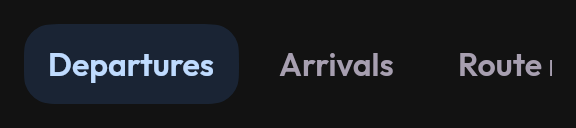
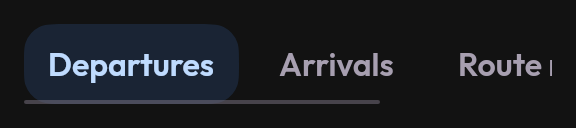
Round 26 stage 6f: a tab row you can tell scrolls, on a phone as well
Asked for as "a horizontal scrollbar for a scrollable `TabBar`, as an option on
`Scrollbar` rather than duplicated". `Scrollbar` needed no new behaviour at all —
it already takes a `ScrollState`, already threads `orientation` through every one
of its branches, and a horizontal one has been in production over the docs site's
code blocks since round 21. What `TabBar` lacked was a scroll position anything
could read: it built one inline at the call site and never named it, so nothing —
not a scrollbar, not a reveal-the-selected-tab effect — could see where the row
had got to.

So: `scrollState` is hoisted to a parameter, the scrolling box gains a wrapper so
a bar can be laid over the tabs rather than beside them, and a scrollable row
draws one.

## `alwaysVisible`, which is a default being overridden deliberately

`Scrollbar` returns early for anything but a mouse — `LocalInputModality` is
`Touch` by default and `supportsHover` is true only for `Mouse`. That is the
right default for a bar over content you can already see and drag: on a phone it
is clutter over the thing the finger is on.

A tab row is where it is wrong. Its whole problem is that you cannot tell there
are more tabs past the edge, and an affordance that appears only once you have a
pointer to discover them with answers a different question. The report came from
a phone, so the default would have shipped this to every platform except the one
that asked for it — which is this round's failure mode exactly.
[…]

Changed region(s): [[0.0312, 0.7812, 0.6562, 0.8125]]

diff --git a/ui-catalog/src/jvmTest/kotlin/io/kontour/ui/catalog/TabBarScrollbarTest.kt b/ui-catalog/src/jvmTest/kotlin/io/kontour/ui/catalog/TabBarScrollbarTest.kt
@@ -1,0 +1,121 @@
+package io.kontour.ui.catalog
+
+import androidx.compose.foundation.background
+import androidx.compose.foundation.layout.Box
+import androidx.compose.foundation.layout.fillMaxSize
+import androidx.compose.foundation.layout.width
+import androidx.compose.ui.Modifier
+import androidx.compose.ui.geometry.Rect
+import androidx.compose.ui.graphics.Color
+import androidx.compose.ui.unit.dp
+import io.kontour.ui.nav.Tab
+import io.kontour.ui.nav.TabBar
+import java.awt.image.BufferedImage
+import kotlin.test.Test
+import kotlin.test.assertEquals
+import kotlin.test.assertTrue
+
+/**
+ * A tab row that scrolls says so, on a phone as well as under a pointer.
+ *
+ * Asked for as "a horizontal scrollbar for a scrollable `TabBar`, as an option
+ * on `Scrollbar` rather than duplicated". `Scrollbar` needed no new behaviour —
+ * it already takes a `ScrollState`, already threads `orientation` through every
+ * branch, and a horizontal one is already in production over the docs site's
+ * code blocks. What `TabBar` lacked was a scroll state anything could read: it
+ * built one inline and never named it.
+ *
+ * ### `alwaysVisible`, and why it is not a default being overridden lightly
+ *
+ * `Scrollbar` returns early for anything but a mouse — `LocalInputModality` is
+ * `Touch` by default and `supportsHover` is true only for `Mouse`. That is the
+ * right default for a scrollbar over content you can already see and drag: on a
+ * phone it would be clutter over a thing the finger is touching anyway.
+ *
+ * A tab row is the case where it is not. Its whole problem is that you cannot
+ * tell there are more tabs past the edge, and an affordance that appears only
+ * once you have a pointer to discover them with answers the wrong question. The
+ * report came from a phone, so a scrollbar the phone never draws would have been
+ * shipping nothing.
+ *
+ * It still draws nothing when there is nothing to scroll — that is `Scrollbar`'s
+ * own `geometry.isUseful`, which is why the second test here is a control rather
+ * than a duplicate.
+ */
+class TabBarScrollbarTest {
+
+    private val Tabs = listOf(
+        "Departures", "Arrivals", "Platforms", "Disruptions", "Lifts", "Fares",
+    )
+
+    /** Ink in the bottom [rows] of [bounds], where the bar is drawn. */
+    private fun BufferedImage.inkAlongTheBottom(bounds: Rect, rows: Int): Int {
+        var count = 0
+        for (y in (bounds.bottom.toInt() - rows) until bounds.bottom.toInt()) {
+            for (x in bounds.left.toInt() until bounds.right.toInt()) {
+                val p = getRGB(x, y)
+                val luminance = ((p shr 16 and 0xFF) + (p shr 8 and 0xFF) + (p and 0xFF)) / 3
+                if (luminance < 210) count++
+            }
+        }
+        return count
+    }
+
+    private fun ink(scrollable: Boolean, tabs: List<String>): Int {
+        var bounds = Rect.Zero
+        var ink = 0
+        // Narrow enough that six tabs cannot fit, so a scrollable row really has
+        // somewhere to scroll.
+        Scene(width = 420, height = 160) {
+            Box(Modifier.fillMaxSize().background(Color.White)) {
+                TabBar(
+                    scrollable = scrollable,
+                    modifier = Modifier.width(200.dp).reportBounds { bounds = it },
+                ) {
+                    tabs.forEachIndexed { index, label ->
+                        Tab(selected = index == 0, onClick = {}, key = index) { +label }
+                    }
+                }
+            }
+        }.use { scene ->
+            ink = scene.frames(8).inkAlongTheBottom(bounds, rows = 10)
+        }
+        return ink
+    }
+
+    @Test
+    fun aScrollableRowDrawsItsBarWithNoPointerAnywhere() {
+        // `LocalInputModality` is `Touch` in a scene, which is the whole point:
+        // this is the configuration the report came from.
+        val scrolling = ink(scrollable = true, tabs = Tabs)
+        val fixed = ink(scrollable = false, tabs = Tabs)
+
+        assertTrue(
+            scrolling > fixed + 200,
+            "a scrollable tab row put ${scrolling}px of ink along its bottom " +
+                "edge against ${fixed}px for a fixed one — not enough to be a " +
+                "scrollbar. On touch `Scrollbar` draws nothing unless it is " +
+                "asked to, so a tab row that overflows was giving a finger no " +
+                "sign that there was anything past the edge.",
+        )
+    }
+
+    @Test
+    fun aRowWithNothingToScrollDrawsNoBar() {
+        // The control, and it is `Scrollbar`'s rule rather than this call site's:
+        // two tabs fit, so there is no travel and nothing to say.
+        //
+        // Two *short* tabs. A first draft used "Departures" and "Arrivals" and
+        // reported 748px of bar, because two words of that length overflow a
+        // 200dp row just as six do — so the control was measuring the same
+        // overflow the test above does, from the other side.
+        val short = listOf("Go", "Up")
+        assertEquals(
+            ink(scrollable = false, tabs = short),
+            ink(scrollable = true, tabs = short),
+            "a scrollable row with nothing to scroll drew something a fixed one " +
+                "did not — `alwaysVisible` is supposed to override the pointer " +
+                "rule, not the useful-geometry one",
+        )
+    }
+}

diff --git a/ui/src/commonMain/kotlin/io/kontour/ui/nav/TabBar.kt b/ui/src/commonMain/kotlin/io/kontour/ui/nav/TabBar.kt
@@ -1,5 +1,7 @@
 package io.kontour.ui.nav
 
+import io.kontour.ui.components.list.Scrollbar
+import androidx.compose.foundation.ScrollState
 import androidx.compose.animation.animateColorAsState
 import androidx.compose.foundation.background
 import androidx.compose.foundation.gestures.Orientation
@@ -115,6 +117,14 @@ object TabBarDefaults {
 fun TabBar(
     modifier: Modifier = Modifier,
     scrollable: Boolean = false,
+    /**
+     * The scroll position of a [scrollable] row, hoisted so it can be read.
+     *
+     * Inline until now, which meant nothing could see where the row had got to —
+     * not a scrollbar, not a "reveal the selected tab" effect, nothing. The row
+     * scrolled and said so to no one.
+     */
+    scrollState: ScrollState = rememberScrollState(),
     containerColour: Color = Color.Transparent,
     indicatorColour: Color = Theme.colours.accent.container,
     /**
@@ -151,11 +161,15 @@ fun TabBar(
             // arithmetic. Wrapping the scroll container instead is how the old
             // implementation drifted away from its tabs as the row scrolled.
             Row(verticalAlignment = Alignment.CenterVertically) {
+            // An extra box around the scrolling one, so the scrollbar can be
+            // laid over the tabs rather than beside them. It carries the weight;
+            // the scrolling box inside it carries the scroll.
+            Box(if (scrollable) Modifier.weight(1f, fill = false) else Modifier.weight(1f)) {
             Box(
                 if (scrollable) {
-                    Modifier.horizontalScroll(rememberScrollState()).weight(1f, fill = false)
+                    Modifier.horizontalScroll(scrollState)
                 } else {
-                    Modifier.weight(1f)
+                    Modifier
                 }
             ) {
                 SelectionIndicatorBox(
@@ -220,6 +234,29 @@ fun TabBar(
                     ) {
                         TabBarScope(row = this, fixed = !scrollable).content()
                     }
+                }
+            }
+
+                // A row you can tell scrolls.
+                //
+                // `Scrollbar` draws nothing for a finger unless it is asked to —
+                // `LocalInputModality` is `Touch` by default and
+                // `supportsHover` is true only for a mouse — so the default
+                // would put this affordance on every platform except the one it
+                // was reported from. A tab bar's whole problem is that you
+                // cannot see there are more tabs off the edge, and a hairline
+                // that appears only when you already have a pointer to discover
+                // them with is not an answer to it.
+                //
+                // It still draws nothing when there is nothing to scroll: that
+                // is `Scrollbar`'s own `geometry.isUseful`, not this call site's.
+                if (scrollable) {
+                    Scrollbar(
+                        state = scrollState,
+                        orientation = Orientation.Horizontal,
+                        modifier = Modifier.align(Alignment.BottomStart).fillMaxWidth(),
+                        alwaysVisible = true,
+                    )
                 }
             }
 

diff --git a/ui-docs/content/components/tab-bar.md b/ui-docs/content/components/tab-bar.md
@@ -87,8 +87,14 @@ size — the label is what gives way.
 Set `scrollable = true` where the labels matter more than seeing them all at
 once: a scrollable bar's tabs are as wide as their own labels rather than a
 share of the bar, so nothing is ellipsised. It is off by default because a
-scrolling row hides options past the edge and gives the user no way to know how
-many there are.
+scrolling row hides options past the edge.
+
+A scrollable bar draws a hairline under its tabs showing how much of the row you
+are looking at — including on a touch screen, where a scrollbar is normally
+hidden. That is the one place the usual rule is wrong: a bar over content you can
+already see and drag is clutter, and a bar over tabs you *cannot* see is the only
+thing saying they are there. It appears only when the tabs actually overflow, and
+`scrollState` is hoisted so an app can drive or read the position itself.
 
 ### Swiping between tabs
 
